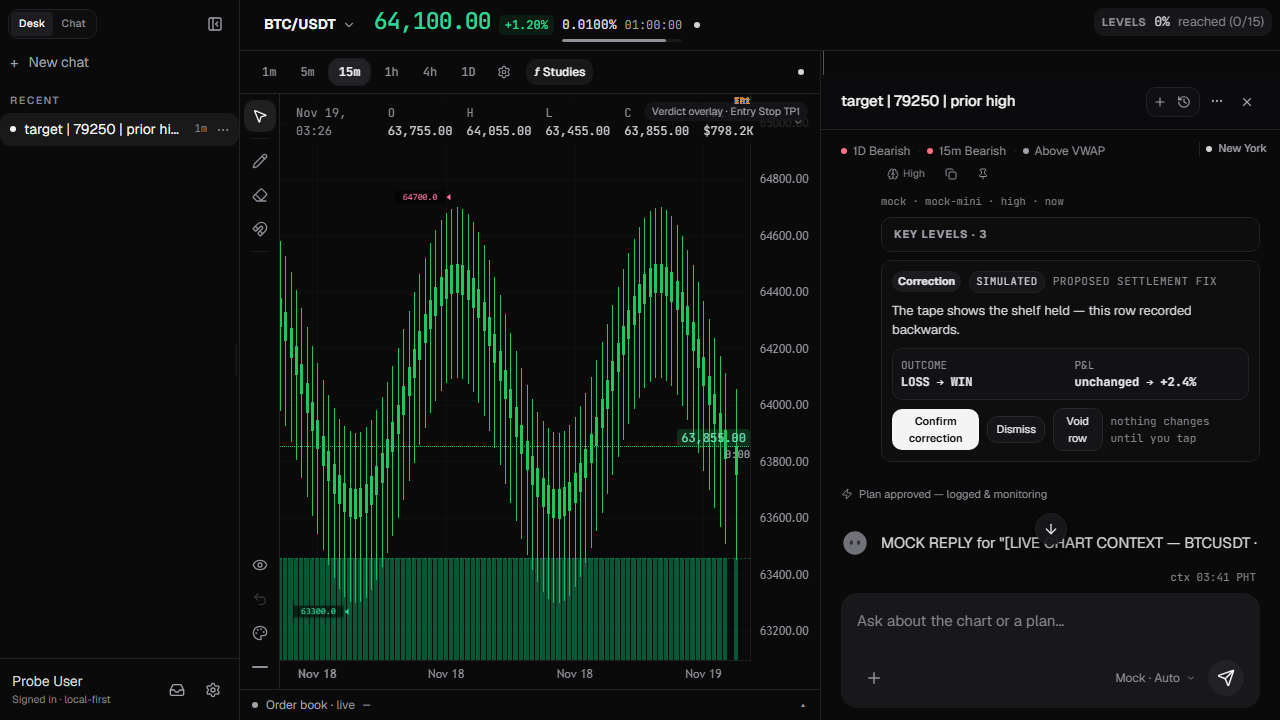
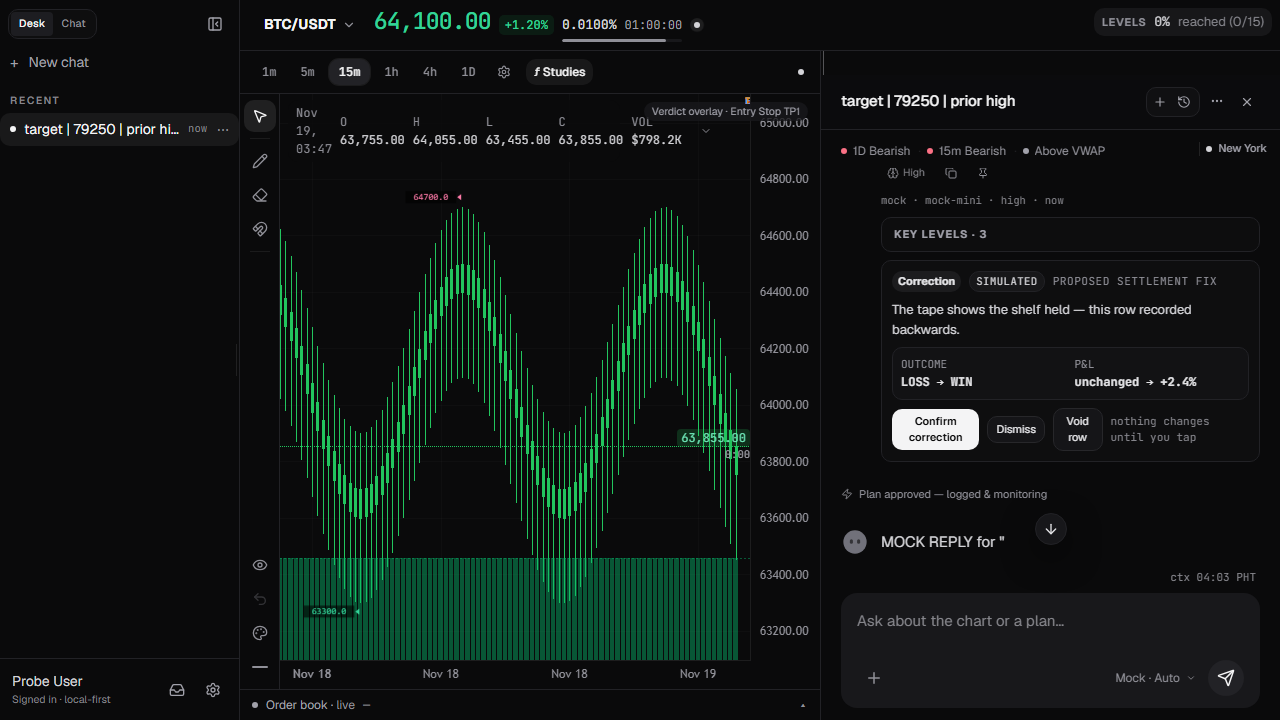
ui: the legend yields to the verdict chip, the strip reaches fenced bubbles, and the probes read the audited UI
Two defects the fresh evidence exposed, and the probe staleness behind
three red checks:

- The OHLCV legend reserved room only for the drawing rail, so a wide line
  ran under the verdict-overlay chip (bug 6's collision, visible at 1280).
  When the chip is up the legend/ohlcv rows narrow to reserve its ~190px,
  and whitespace-nowrap keeps the tokens whole — a narrowed legend clips at
  its edge instead of breaking 'Nov 19,' across lines.
- stripInternalContextMarks now runs on BOTH transcript branches: the
  key-levels fence's clean text skipped it, so an echo transport painted
  [LIVE CHART CONTEXT ...] into a bubble that also carried a fence (visible
  in the first settlement-correction evidence).
- render-probe read the OLD sidebar shape: the in-column hide icon is gone
  (bug 8, pinned by check:contracts), the ONE header toggle hides, and the
  surface floor drops to 20 because chat layout hides the bias strip by
  ruling and an empty thread's main reads 39 chars. decision-card-probe
  sweeps up to the risk card's revert button before counting it — the
  applied card sits above the virtualized window after the note turn.

diff --git a/src/components/trade/TradingChart.tsx b/src/components/trade/TradingChart.tsx
@@ -2187,16 +2187,23 @@ const TradingChart: React.FC<TradingChartProps> = ({ symbol, interval, onInterva
                         /* The drawing rail owns the plot's left 40px (w-10, z-20,
                            rendered unconditionally), so the legend starts right of
                            it — left-2 sat underneath the rail's icon column and
-                           the first characters of every row were unreadable. */
-                        className="pointer-events-none absolute left-12 top-1.5 z-10 max-w-[calc(100%-56px)] rounded-control bg-zinc-950/80 px-2 py-1 font-mono text-ui-dense text-zinc-500"
+                           the first characters of every row were unreadable. When
+                           the verdict-overlay chip is up, its ~190px at the right
+                           edge are reserved too: a wide OHLCV line that ran under
+                           the chip collided with it (the UI audit's bug 6), so
+                           the chip's presence narrows the legend instead. */
+                        className={`pointer-events-none absolute left-12 top-1.5 z-10 overflow-hidden rounded-control bg-zinc-950/80 px-2 py-1 font-mono text-ui-dense text-zinc-500 ${levels.length > 0 ? 'max-w-[calc(100%-248px)]' : 'max-w-[calc(100%-56px)]'}`}
                     >
                         {/* ONE compact OHLCV line (owner 1.4.1): time, the four
                             prices and the volume. Everything else this legend
                             knows — change, range, per-study readouts — sits
                             behind the expand toggle, so a clean chart reads as
                             one quiet line and a study-heavy one can still be
-                            interrogated. */}
-                        <div className="flex items-center gap-x-2">
+                            interrogated. whitespace-nowrap keeps the tokens
+                            whole: a narrowed legend CLIPS at its edge (under
+                            the verdict chip's reserved room) rather than
+                            breaking "Nov 19," across two lines. */}
+                        <div className="flex items-center gap-x-2 whitespace-nowrap">
                             <span>{phtAxisTick(legendBar.time, 'full')}</span>
                             {(['open', 'high', 'low', 'close'] as const).map(k => (
                                 <span key={k}>{k[0].toUpperCase()} <span className="text-zinc-300">{fmtPriceForChart(legendBar[k])}</span></span>
@@ -2274,7 +2281,7 @@ const TradingChart: React.FC<TradingChartProps> = ({ symbol, interval, onInterva
                 {ohlcvRow && overPlot && (
                     <div
                         data-testid="ohlcv-row"
-                        className="pointer-events-none absolute left-12 z-10 flex max-w-[calc(100%-56px)] items-center gap-3 overflow-hidden rounded-control bg-zinc-950/80 px-2 py-0.5 text-ui-dense text-zinc-500"
+                        className={`pointer-events-none absolute left-12 z-10 flex items-center gap-3 overflow-hidden rounded-control bg-zinc-950/80 px-2 py-0.5 text-ui-dense text-zinc-500 ${levels.length > 0 ? 'max-w-[calc(100%-248px)]' : 'max-w-[calc(100%-56px)]'}`}
                         style={{ top: legendBar ? '5.5rem' : '0.375rem' }}
                     >
                         <span className="font-mono tabular-nums">H <span className="text-zinc-300">{ohlcvRow.high24h ? fmtPriceForChart(ohlcvRow.high24h) : '—'}</span></span>

diff --git a/src/components/trade/panels/ChatTranscriptList.tsx b/src/components/trade/panels/ChatTranscriptList.tsx
@@ -358,10 +358,13 @@ const ChatTranscriptList: React.FC<ChatTranscriptListProps> = ({
         // raw text — and an OPEN (still-streaming) fence is hidden
         // from the bubble too, so the protocol never flashes.
         const aiLevels = e.role === 'ai' && !e.notice ? parseKeyLevels(e.text) : null;
-        // The displayed text never carries the app's internal context marks —
-        // a transport that echoes its input (the probe mock) would otherwise
-        // paint `[LIVE CHART CONTEXT …]` into the trader's bubble.
-        const shownText = aiLevels?.hadBlock ? aiLevels.clean : stripInternalContextMarks(e.text);
+        // The displayed text NEVER carries the app's internal context marks —
+        // on BOTH branches: the key-levels fence's clean text used to skip the
+        // strip, so a transport that echoes its input (the probe mock) painted
+        // `[LIVE CHART CONTEXT …]` into a bubble that also carried a fence.
+        const shownText = aiLevels?.hadBlock
+            ? stripInternalContextMarks(aiLevels.clean)
+            : stripInternalContextMarks(e.text);
         // A row projected from the conversation keeps the Message's own id
         // (`liveEntryFromMessage` sets `id: m.id`, which is what lets the
         // merge treat one turn as one row), so the entry id IS the analysis
